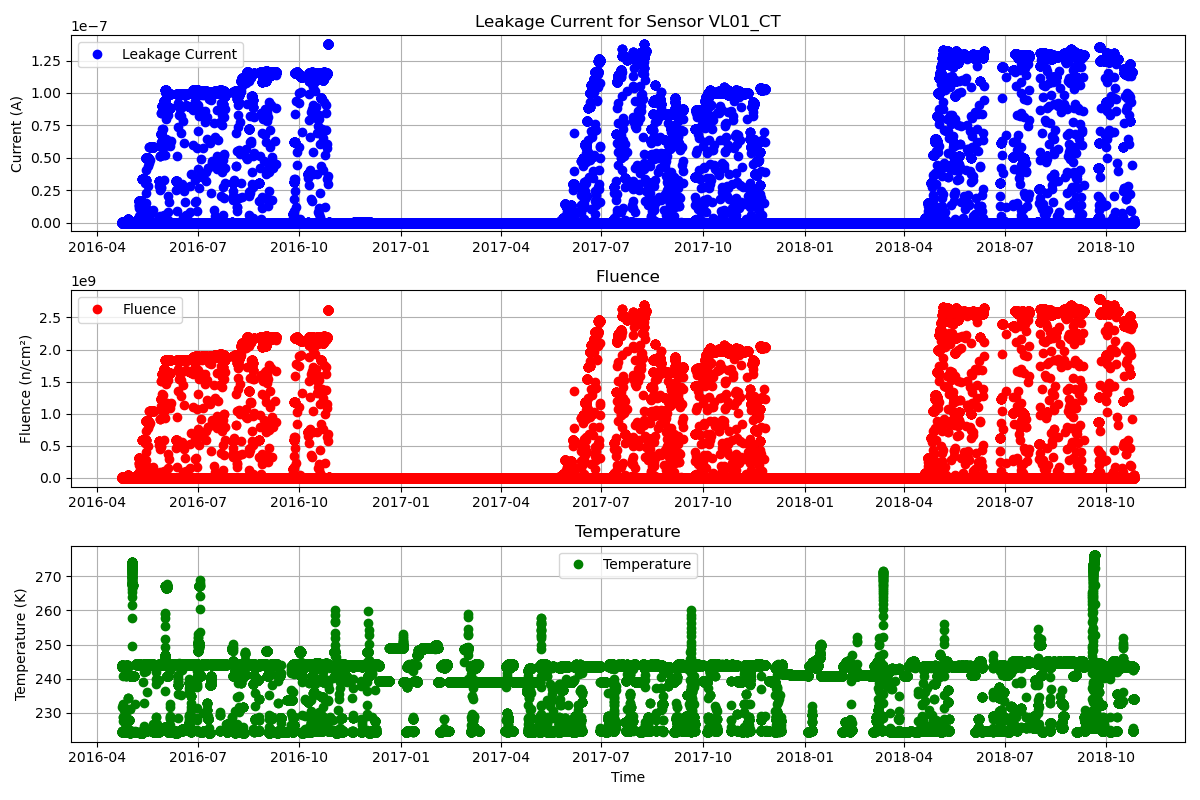
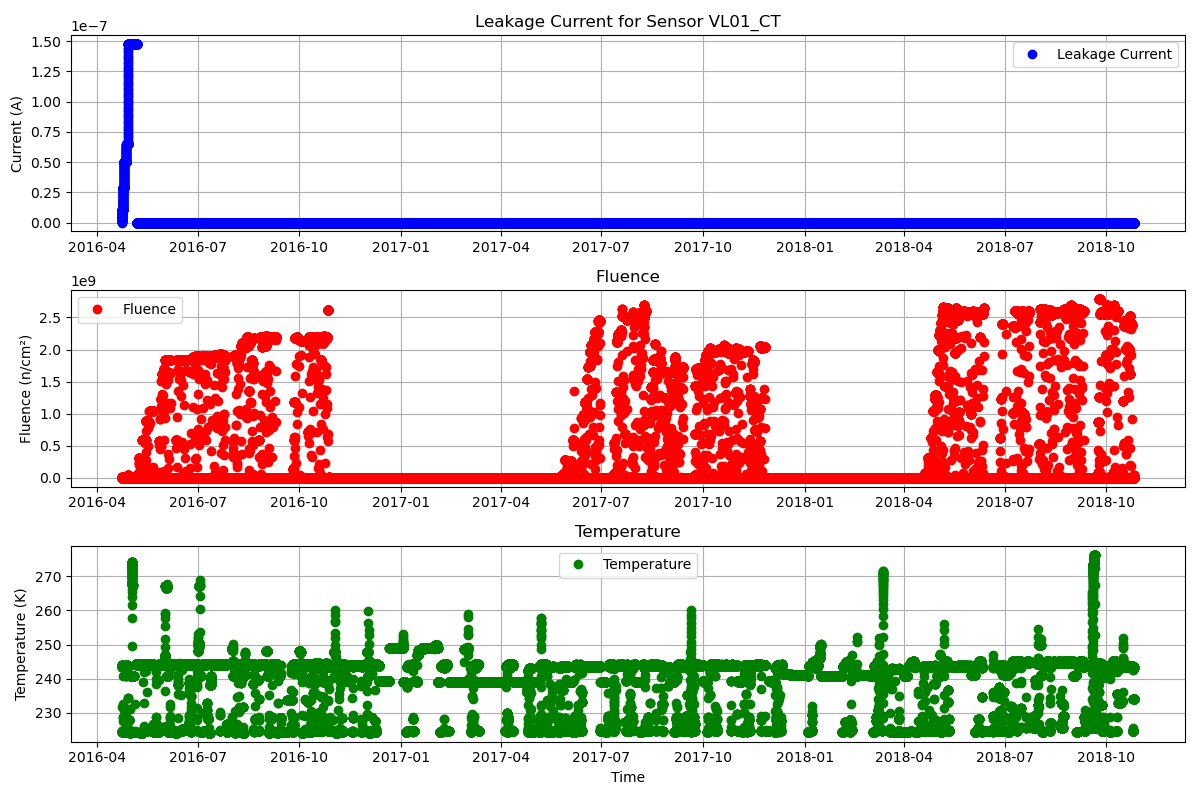
working, but recursive problem

Changed region(s): [[0.0308, 0.0312, 0.2775, 0.2812], [0.7708, 0.0312, 0.9867, 0.2812], [0.4625, 0.0312, 0.6475, 0.2812]]

diff --git a/fluence_lib.py b/fluence_lib.py
@@ -114,19 +114,21 @@ def simulate_current_sensor(fluence_df: pd.Series, temp_df: pd.Series, sensor_na
     time_theta = theta_j * time / params.t_0
     
     print("Starting main calculation loop...")
-    n = len(result)
-    for i in tqdm.tqdm(range(n)):
-        # Use numpy slicing for faster sum calculation
-        sum_1 = np.sum(time_tau[:i-1])
-        sum_2 = np.sum(time_theta[:i-1])
-        
-        # Calculate alpha and current
-        alpha = params.alpha_I * np.exp(-sum_1) + params.alpha_0_star - params.beta * np.log(sum_2)
-        result.loc[result.index[i], 'current'] = result['fluence'].iloc[i] * params.V * alpha
-        
-        # Print progress info every 10% of total
-        if i % (n//10) == 0:
-            print(f"Progress: {i/n*100:.1f}%, Current sum_1: {sum_1:.2e}, sum_2: {sum_2:.2e}")
+    N = len(result)
+    for n in tqdm.tqdm(range(N)):
+        I_leak = 0.0
+        if n == 2000:
+            break
+        for i in (range(n)):
+            # Use numpy slicing for faster sum calculation
+            sum_1 = np.sum(time_tau[i:])
+            sum_2 = np.sum(time_theta[i:])
+            
+            # Calculate alpha and current
+            alpha = params.alpha_I * np.exp(-sum_1) + params.alpha_0_star - params.beta * np.log(sum_2)
+            I_leak = I_leak + result['fluence'].iloc[i] * params.V * alpha
+    
+        result.loc[result.index[n], 'current'] = I_leak
 
     print("Simulation completed!")
     return result
